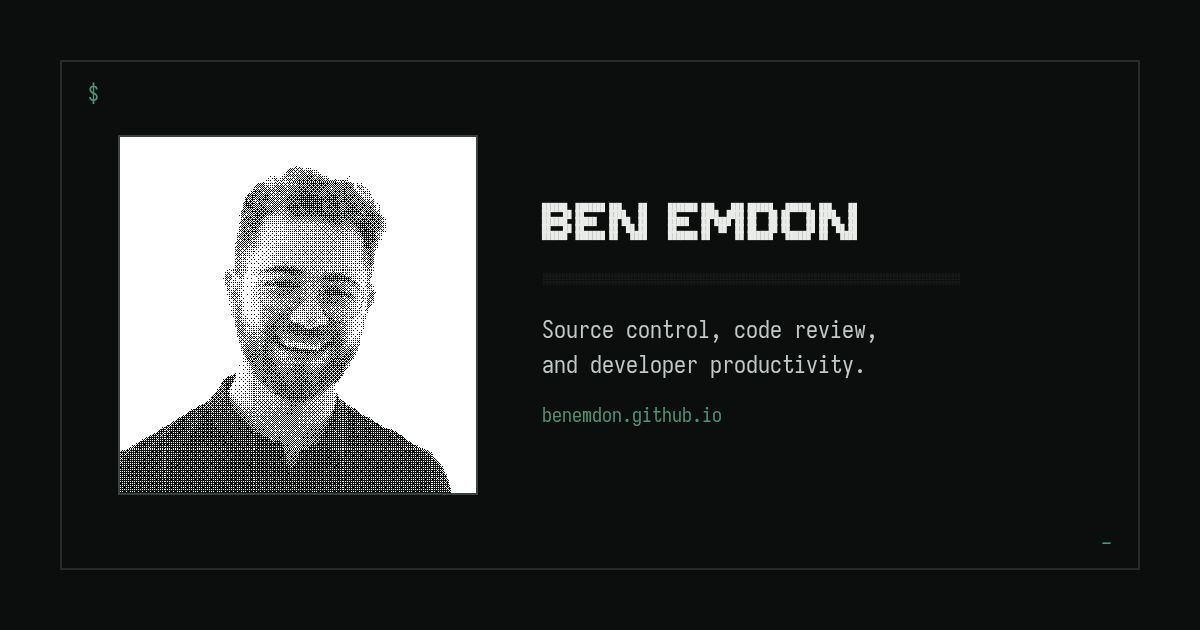
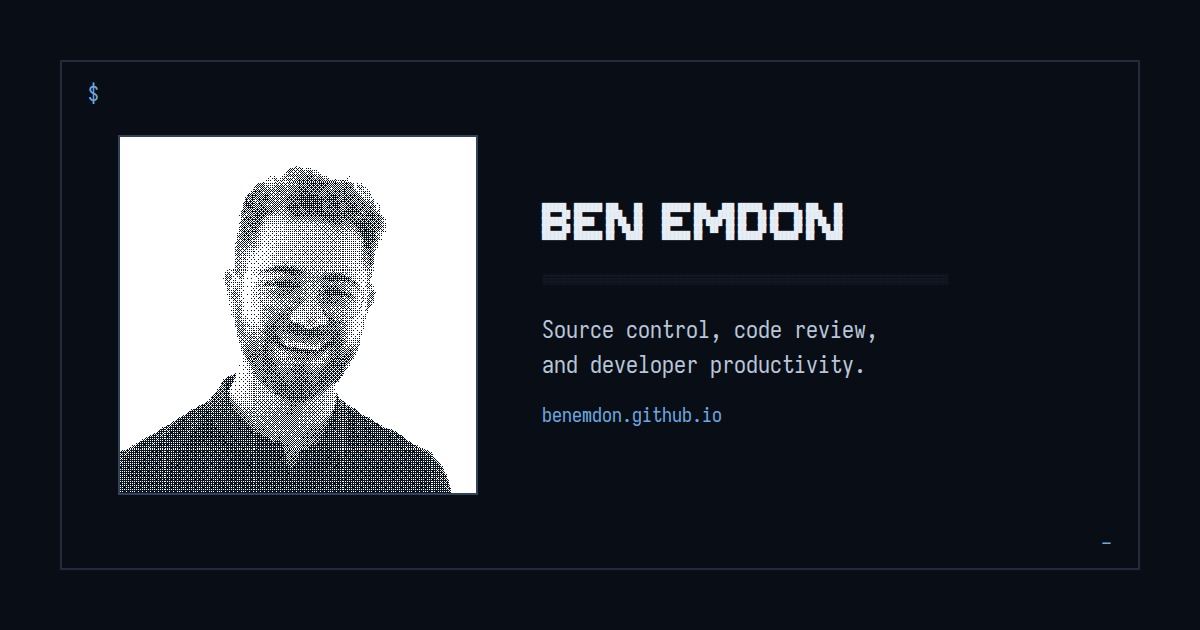
Switch the site accent from green to blue
Ben's vibe call on 2026-11-14. The palette is token-driven, so this is a primitive remap: the accent goes from muted greens (#1e754f / #4d9375) to blues (#1e5aa8 light, #6ea8e1 dark), and the neutral inks shift from a faint green tint to the same lightness steps with a faint blue tint, so the accent still feels native. Everything semantic follows on its own: links, the wordmark lighting, the hiring sparkle and border pulse, the dither, focus rings.

Also updated the places that hardcode the palette: favicon.svg (both tones, swapped per scheme as before), og-card.html and its regenerated og-card.jpg, and the theme-color metas (dark was a stale green, light was a stale cream; now white and the new ink-900).

diff --git a/assets/css/tokens.css b/assets/css/tokens.css
@@ -9,8 +9,10 @@
   there is no second copy of the palette to drift out of sync.
 
   Palette: high-contrast near-white / near-black, both carrying a trace of
-  green, with a single muted green accent (in the Vitesse / Everforest family
-  rather than a neon terminal green).
+  blue, with a single muted blue accent. The accent used to be a muted
+  green (Vitesse / Everforest family); Ben switched the site's vibe to
+  blue on 2026-11-14. Only the primitives below changed, the semantics
+  and every component followed on their own.
 
   The vertical rhythm is one number: --step (1.5rem = 24px). body line-height is
   set to --step as an absolute, so every line of text sits on that grid no
@@ -19,29 +21,29 @@
 :root {
   color-scheme: light dark;
 
-  /* --- primitives: neutrals, faintly green so the accent feels native --- */
+  /* --- primitives: neutrals, faintly blue so the accent feels native --- */
   --ink-50: #ffffff;
-  --ink-100: #f4f6f4;
-  --ink-200: #e2e6e2;
-  --ink-300: #c2c9c4;
-  --ink-400: #8c968f;
-  --ink-500: #5b655e;
-  --ink-600: #3a423d;
-  --ink-700: #262c28;
-  --ink-800: #161a18;
-  --ink-900: #0c0e0d;
+  --ink-100: #f3f5fa;
+  --ink-200: #dfe6f0;
+  --ink-300: #b9c6da;
+  --ink-400: #8296b1;
+  --ink-500: #52637c;
+  --ink-600: #33415a;
+  --ink-700: #212b3d;
+  --ink-800: #121826;
+  --ink-900: #090d16;
 
   /* --- primitives: the accent --- */
-  --green-light: #1e754f;
-  --green-dark: #4d9375;
+  --blue-light: #1e5aa8;
+  --blue-dark: #6ea8e1;
 
   /* --- semantics --- */
   --page-background: light-dark(var(--ink-50), var(--ink-900));
   --page-subtle: light-dark(var(--ink-100), var(--ink-800));
   --page-rule: light-dark(var(--ink-200), var(--ink-700));
-  --page-color: light-dark(#101311, #e8ebe8);
+  --page-color: light-dark(#0f141d, #e8ecf4);
   --muted-color: light-dark(var(--ink-500), var(--ink-400));
-  --accent-color: light-dark(var(--green-light), var(--green-dark));
+  --accent-color: light-dark(var(--blue-light), var(--blue-dark));
   --link-color: var(--accent-color);
   --inverted-color: light-dark(var(--ink-50), var(--ink-900));
 
@@ -50,8 +52,8 @@
      background) to the light tone regardless of site theme. Swapping these
      per theme would invert the photo like a negative in dark mode rather
      than just recolouring it. Point --dither-ink at --accent-color for a
-     greener cast. */
-  --dither-ink: #101311;
+     bluer cast. */
+  --dither-ink: #0d1522;
   --dither-paper: var(--ink-50);
 
   /* --- type: three sizes, nothing else --- */

diff --git a/og-card.html b/og-card.html
@@ -34,8 +34,8 @@
       body {
         display: grid;
         place-items: center;
-        background: #0c0e0d;
-        color: #e8ebe8;
+        background: #090d16;
+        color: #e8ecf4;
         font-family: "Iosevka", ui-monospace, SFMono-Regular, Menlo, monospace;
       }
 
@@ -48,13 +48,13 @@
         width: 1080px;
         height: 510px;
         padding: 56px;
-        border: 2px solid #262c28;
+        border: 2px solid #212b3d;
       }
 
       .card::before,
       .card::after {
         position: absolute;
-        color: #4d9375;
+        color: #6ea8e1;
         font-size: 22px;
         line-height: 1;
       }
@@ -73,7 +73,7 @@
         width: 360px;
         height: 360px;
         background: #ffffff;
-        border: 2px solid #3a423d;
+        border: 2px solid #33415a;
       }
 
       .portrait img {
@@ -84,7 +84,7 @@
         display: block;
         width: 100%;
         height: 100%;
-        color: #101311;
+        color: #0d1522;
         image-rendering: pixelated;
       }
 
@@ -94,7 +94,7 @@
 
       .wordmark {
         margin: 0;
-        color: #e8ebe8;
+        color: #e8ecf4;
         font-family: "JetBrains Mono", ui-monospace, SFMono-Regular, monospace;
         font-size: 7px;
         line-height: 1;
@@ -105,7 +105,7 @@
         width: 100%;
         margin: 34px 0 28px;
         overflow: hidden;
-        color: #262c28;
+        color: #212b3d;
         font-family: "JetBrains Mono", ui-monospace, SFMono-Regular, monospace;
         font-size: 12px;
         line-height: 1;
@@ -114,14 +114,14 @@
 
       .focus {
         margin: 0;
-        color: #c2c9c4;
+        color: #b9c6da;
         font-size: 24px;
         line-height: 1.45;
       }
 
       .url {
         margin: 24px 0 0;
-        color: #4d9375;
+        color: #6ea8e1;
         font-size: 20px;
         line-height: 1;
       }
@@ -158,7 +158,7 @@
         await image.decode();
         render(canvas, image, {
           size: 360,
-          ink: "#101311",
+          ink: "#0d1522",
           paper: "#ffffff",
           contrast: 0.95,
           brightness: 0.12,

diff --git a/index.html b/index.html
@@ -35,8 +35,8 @@
     <link rel="icon" href="favicon.svg" type="image/svg+xml" />
 
     <meta name="color-scheme" content="light dark" />
-    <meta name="theme-color" media="(prefers-color-scheme: light)" content="#fdf6e3" />
-    <meta name="theme-color" media="(prefers-color-scheme: dark)" content="#14251f" />
+    <meta name="theme-color" media="(prefers-color-scheme: light)" content="#ffffff" />
+    <meta name="theme-color" media="(prefers-color-scheme: dark)" content="#090d16" />
 
     <!-- Applied before first paint so a saved theme never flashes the other one. -->
     <script>
